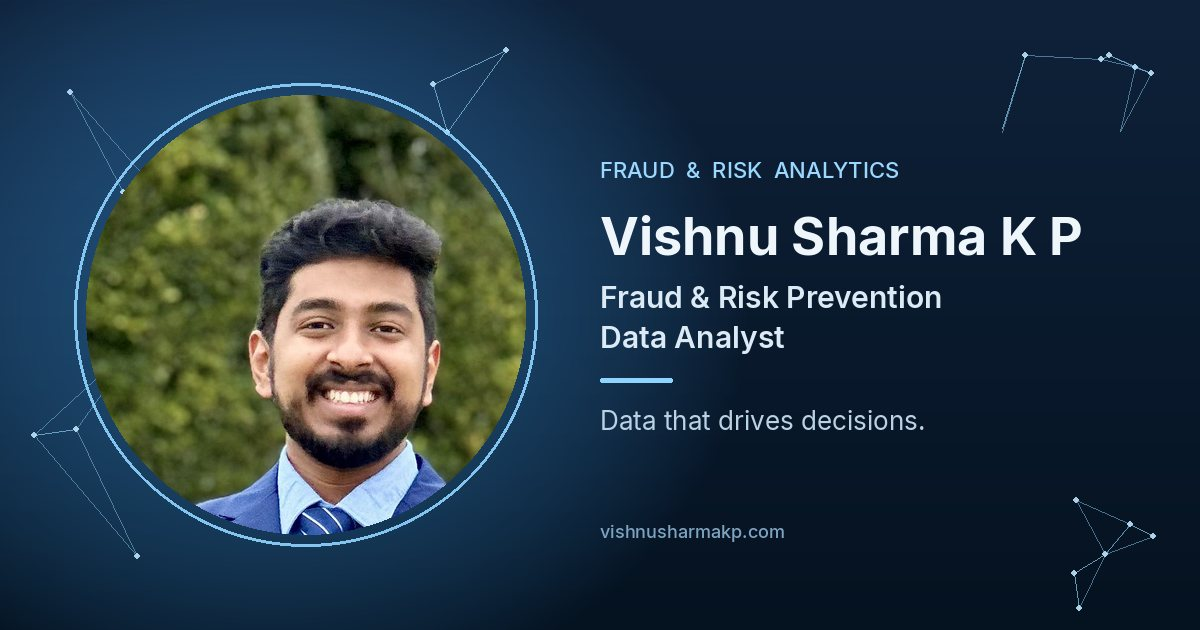
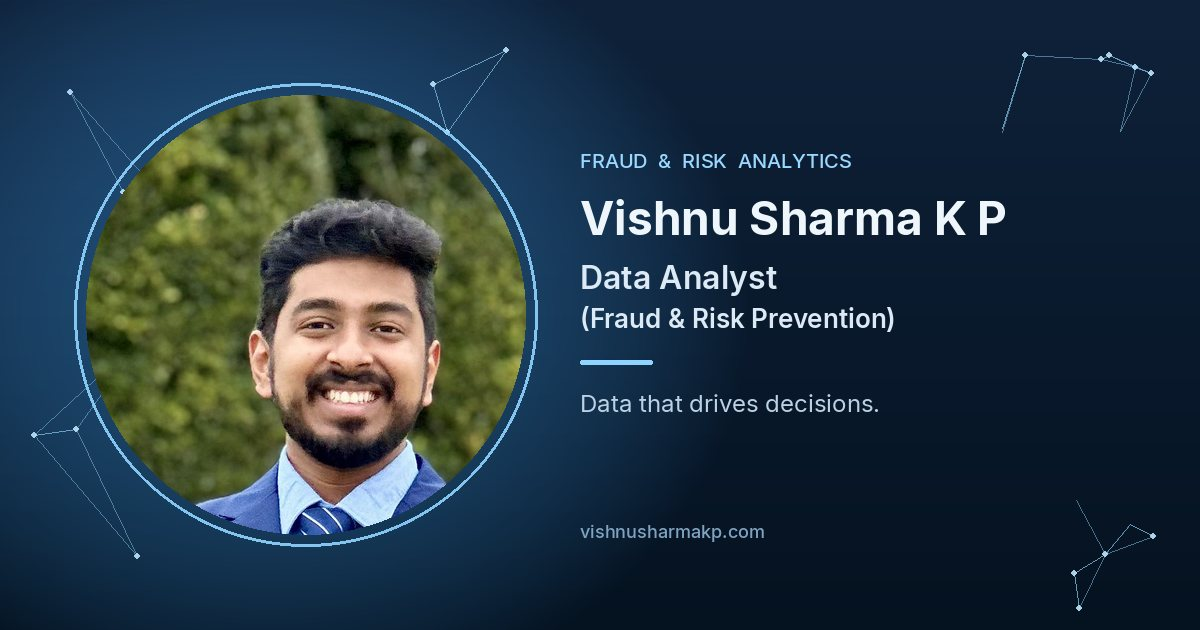
Shrink mobile portraits and sync the Likewize role copy.
Use the updated Data Analyst title and bullets, drop job-seeking language, and keep the desktop photo size.

Changed region(s): [[0.4625, 0.2413, 0.925, 0.6937], [0.4933, 0.8143, 0.6475, 0.8746]]

diff --git a/index.html b/index.html
@@ -3,8 +3,8 @@
 <head>
   <meta charset="UTF-8">
   <meta name="viewport" content="width=device-width, initial-scale=1">
-  <title>Vishnu Sharma K P | Fraud &amp; Risk Prevention Data Analyst</title>
-  <meta name="description" content="Vishnu Sharma K P is a Fraud &amp; Risk Prevention Data Analyst at Likewize. SQL, Python, and Power BI for fraud rules, chargebacks, and risk decisions.">
+  <title>Vishnu Sharma K P | Data Analyst (Fraud &amp; Risk Prevention)</title>
+  <meta name="description" content="Vishnu Sharma K P is a Data Analyst (Fraud &amp; Risk Prevention) at Likewize. Rules, reporting, and data solutions for Customer Care and Fraud Operations.">
   <meta name="author" content="Vishnu Sharma K P">
   <meta name="theme-color" content="#04101c">
   <meta name="color-scheme" content="dark">
@@ -12,17 +12,17 @@
   <meta property="og:type" content="website">
   <meta property="og:site_name" content="Vishnu Sharma K P">
   <meta property="og:url" content="https://www.vishnusharmakp.com/">
-  <meta property="og:title" content="Vishnu Sharma K P | Fraud &amp; Risk Prevention Data Analyst">
+  <meta property="og:title" content="Vishnu Sharma K P | Data Analyst (Fraud &amp; Risk Prevention)">
   <meta property="og:description" content="Fraud and risk analytics at Likewize. Data that drives decisions.">
   <meta property="og:image" content="https://www.vishnusharmakp.com/assets/images/og.jpg">
   <meta property="og:image:width" content="1200">
   <meta property="og:image:height" content="630">
-  <meta property="og:image:alt" content="Vishnu Sharma K P, Fraud and Risk Prevention Data Analyst">
+  <meta property="og:image:alt" content="Vishnu Sharma K P, Data Analyst (Fraud and Risk Prevention)">
   <meta name="twitter:card" content="summary_large_image">
-  <meta name="twitter:title" content="Vishnu Sharma K P | Fraud &amp; Risk Prevention Data Analyst">
+  <meta name="twitter:title" content="Vishnu Sharma K P | Data Analyst (Fraud &amp; Risk Prevention)">
   <meta name="twitter:description" content="Fraud and risk analytics at Likewize. Data that drives decisions.">
   <meta name="twitter:image" content="https://www.vishnusharmakp.com/assets/images/og.jpg">
-  <meta name="twitter:image:alt" content="Vishnu Sharma K P, Fraud and Risk Prevention Data Analyst">
+  <meta name="twitter:image:alt" content="Vishnu Sharma K P, Data Analyst (Fraud and Risk Prevention)">
   <link rel="icon" href="assets/images/favicon.svg" type="image/svg+xml">
   <link rel="icon" href="assets/images/favicon-32.png" sizes="32x32" type="image/png">
   <link rel="apple-touch-icon" href="assets/images/apple-touch-icon.png">
@@ -36,7 +36,7 @@
       "@context": "https://schema.org",
       "@type": "Person",
       "name": "Vishnu Sharma K P",
-      "jobTitle": "Fraud & Risk Prevention Data Analyst",
+      "jobTitle": "Data Analyst (Fraud & Risk Prevention)",
       "url": "https://www.vishnusharmakp.com/",
       "email": "vishnusharmakp@gmail.com",
       "image": "https://www.vishnusharmakp.com/assets/images/portrait-hero.jpg",
@@ -49,7 +49,7 @@
         "https://www.linkedin.com/in/vishnusharmakp/",
         "https://github.com/vishnusharmakp"
       ],
-      "knowsAbout": ["Fraud detection", "Risk analytics", "Chargebacks", "SQL", "Python", "Power BI", "Machine learning"]
+      "knowsAbout": ["Fraud Prevention Strategy", "Machine Learning", "Business Intelligence", "Customer and Client Analytics", "SQL", "Power BI", "Python", "AWS"]
     }
   </script>
 </head>
@@ -112,7 +112,7 @@
           <div class="hero-copy">
             <p class="eyebrow">Fraud &amp; risk analytics</p>
             <h1>Vishnu<br>Sharma K&nbsp;P</h1>
-            <p class="role">Fraud &amp; Risk Prevention Data Analyst</p>
+            <p class="role">Data Analyst (Fraud &amp; Risk Prevention)</p>
             <p class="tagline">Data that drives decisions.</p>
             <div class="actions">
               <a class="btn btn-primary" href="https://drive.google.com/file/d/1wiUhvhvfNVdmsKWhYQLQjOPvQz7Zo1VT/view?usp=drive_link" target="_blank" rel="noopener noreferrer">Resume<span class="sr-only"> (opens in a new tab)</span></a>
@@ -160,9 +160,7 @@
             <h2>About</h2>
           </header>
           <div class="prose">
-            <p>Data Analyst with 4+ years at Likewize specializing in fraud and risk analytics, building the rules, models, forecasts, and automation that stop fraud at scale across the US and Canada.</p>
-            <p>That work has contributed to $1M+ in annual fraud savings across payment card fraud, account takeover (ATO), friendly fraud, chargebacks, and document fraud. I deliver operational analysis, forecasting, and root cause analysis for Care and Fraud teams, and I present trends and recommendations to senior leadership.</p>
-            <p>M.S. in Data Science, The University of Texas at Arlington. Open to Data Analyst, Senior Data Analyst, Data Scientist, and fraud, risk, and trust &amp; safety analytics roles.</p>
+            <p>Data Analyst with 4+ years at Likewize specializing in fraud and risk analytics. I build the rules, reporting, and data solutions that power Customer Care and Fraud Operations across the US and Canada.</p>
           </div>
         </div>
         <figure class="about-portrait">
@@ -185,15 +183,17 @@
           <details name="roles" open>
             <summary>
               <span class="role-line">
-                <span class="role-title">Risk Prevention Data Analyst</span>
+                <span class="role-title">Data Analyst (Fraud &amp; Risk Prevention)</span>
                 <span class="role-meta">Likewize · Southlake, TX · May 2023 – Present</span>
               </span>
             </summary>
             <ul>
-              <li>Developed and maintained fraud rules for the US &amp; Canada region, monitoring rule performance via SQL and Power BI dashboards to continuously optimize detection accuracy and minimize false positives.</li>
+              <li>Contributed to $1M+ in annual fraud savings by detecting process gaps and implementing data-driven enhancements across chargeback, payment card fraud, ATO, friendly fraud, and document fraud vectors.</li>
               <li>Automated chargeback decisioning using a SQL-based decision engine, reducing manual review by 80–85% and cutting overall chargeback volume by 40%.</li>
-              <li>Managed end-to-end vendor relationships with LexisNexis, TransUnion, Mitek, and NuData Mastercard: evaluating ROI, coordinating technical implementations with the dev team, and monitoring post-launch performance.</li>
-              <li>Developed executive-facing Power BI dashboards tracking fraud KPIs, reducing decision-making time by 25% and improving visibility into high-risk claim segments.</li>
+              <li>Design and implement fraud rules for new client launches, from business requirements and UAT through post-launch rule performance monitoring in SQL and Power BI.</li>
+              <li>Implement and lead Global Fraud Solutions and vendor integrations such as Recipero, GSMA, LexisNexis, Equifax, and TransUnion, partnering with Product, IT, and vendors on requirements, testing, and rollout.</li>
+              <li>Own customer and client analytics, building CSAT, DSAT, NPS, and SLA reporting and Power BI dashboards for client reviews and senior leadership, which cut decision-making time by 25%.</li>
+              <li>Train and support global teams on US&amp;C fraud processes and new fraud technology.</li>
             </ul>
           </details>
           <details name="roles">
@@ -233,14 +233,14 @@
         <header class="section-head">
           <p class="eyebrow">03</p>
           <h2>Featured work</h2>
-          <p>Choose a project. Problem, approach, and result stay on the source material from the resume.</p>
+          <p>Choose a project. Problem, approach, and result follow the work at Likewize.</p>
         </header>
         <div class="explorer" id="work-explorer">
           <nav class="explorer-nav" aria-label="Featured projects">
             <a href="#case-chargeback" aria-current="true">Chargeback decision engine</a>
             <a href="#case-aws">Machine-learning fraud detection</a>
             <a href="#case-vendors">Fraud vendor integrations</a>
-            <a href="#case-dashboards">Executive fraud dashboards</a>
+            <a href="#case-dashboards">Client analytics dashboards</a>
           </nav>
           <div class="explorer-stage">
             <article class="explorer-panel case is-active" id="case-chargeback">
@@ -285,33 +285,33 @@
               <div class="case-points">
                 <div>
                   <h4>Problem</h4>
-                  <p>Rules needed specialist fraud vendors, and each one had to be justified on ROI.</p>
+                  <p>Global fraud coverage had to be rolled out with Product, IT, and specialist vendors.</p>
                 </div>
                 <div>
                   <h4>Approach</h4>
-                  <p>Owned LexisNexis, TransUnion, Mitek, and NuData Mastercard from evaluation through launch with engineering.</p>
+                  <p>Lead Global Fraud Solutions and integrations with Recipero, GSMA, LexisNexis, Equifax, and TransUnion, from requirements and testing through rollout.</p>
                 </div>
                 <div>
                   <h4>Result</h4>
-                  <p>ROI evaluated, technical implementations coordinated with the dev team, and performance monitored after launch.</p>
+                  <p>Requirements, testing, and rollout done with Product, IT, and the vendors.</p>
                 </div>
               </div>
             </article>
             <article class="explorer-panel case" id="case-dashboards">
               <p class="kicker">Likewize · Power BI</p>
-              <h3>Executive fraud dashboards</h3>
+              <h3>Client analytics dashboards</h3>
               <div class="case-points">
                 <div>
                   <h4>Problem</h4>
-                  <p>Leaders needed a faster read on fraud KPIs and high-risk claim segments.</p>
+                  <p>Client reviews and senior leadership needed CSAT, DSAT, NPS, and SLA reporting in one place.</p>
                 </div>
                 <div>
                   <h4>Approach</h4>
-                  <p>Built executive-facing Power BI dashboards tracking fraud KPIs.</p>
+                  <p>Built that customer and client reporting, and the Power BI dashboards used in client reviews.</p>
                 </div>
                 <div>
                   <h4>Result</h4>
-                  <p>Decision-making time reduced by 25%, with better visibility into high-risk claim segments.</p>
+                  <p>Decision-making time cut by 25%.</p>
                 </div>
               </div>
             </article>
@@ -387,6 +387,7 @@
           <article data-skill-group>
             <h3>Fraud &amp; risk</h3>
             <ul class="chips">
+              <li>Fraud Prevention Strategy</li>
               <li>Fraud Detection</li>
               <li>Fraud Prevention</li>
               <li>Risk Analytics</li>
@@ -401,16 +402,17 @@
             </ul>
             <p class="chip-label">Vendors</p>
             <ul class="chips">
+              <li>Recipero</li>
+              <li>GSMA</li>
               <li>LexisNexis</li>
+              <li>Equifax</li>
               <li>TransUnion</li>
-              <li>Mitek</li>
-              <li>NuData Mastercard</li>
-              <li>SIRA</li>
             </ul>
           </article>
           <article data-skill-group>
             <h3>Analytics &amp; ML</h3>
             <ul class="chips">
+              <li>Customer &amp; Client Analytics</li>
               <li>SQL</li>
               <li>Python</li>
               <li>R</li>
@@ -426,6 +428,7 @@
           <article data-skill-group>
             <h3>Tools &amp; BI</h3>
             <ul class="chips">
+              <li>Business Intelligence</li>
               <li>Power BI</li>
               <li>Tableau</li>
               <li>Excel</li>

diff --git a/assets/css/style.css b/assets/css/style.css
@@ -777,6 +777,42 @@ h1 {
 
 .footer-inner p { margin: 0; color: var(--muted); }
 
+@media (max-width: 768px) {
+  .hero-portrait {
+    max-width: 200px;
+    margin-inline: auto;
+    padding: 5px;
+    border-radius: 24px;
+  }
+
+  .hero-portrait img {
+    width: 100%;
+    height: auto;
+    aspect-ratio: 1;
+    object-fit: cover;
+    object-position: center 18%;
+    border-radius: 20px;
+  }
+
+  .about-portrait {
+    max-width: 200px;
+    margin-inline: auto;
+  }
+
+  .about-portrait img {
+    width: 100%;
+    height: auto;
+    max-height: none;
+    object-fit: contain;
+    object-position: center top;
+  }
+}
+
+@media (max-width: 480px) {
+  .hero-portrait { max-width: 168px; }
+  .about-portrait { max-width: 180px; }
+}
+
 @media (max-width: 640px) {
   .brand span { display: none; }
   .actions { display: grid; }
